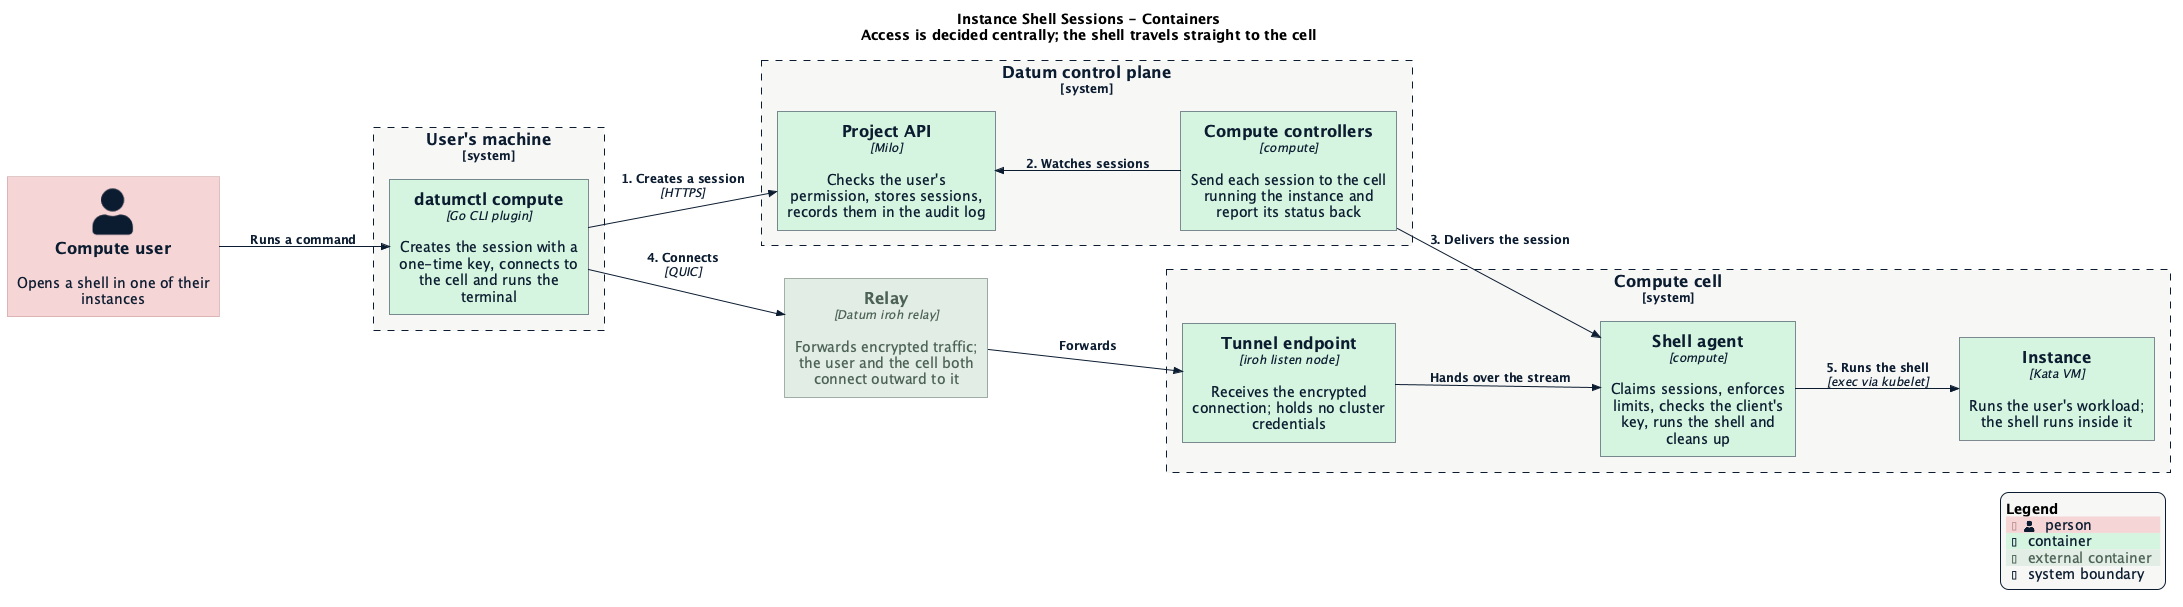
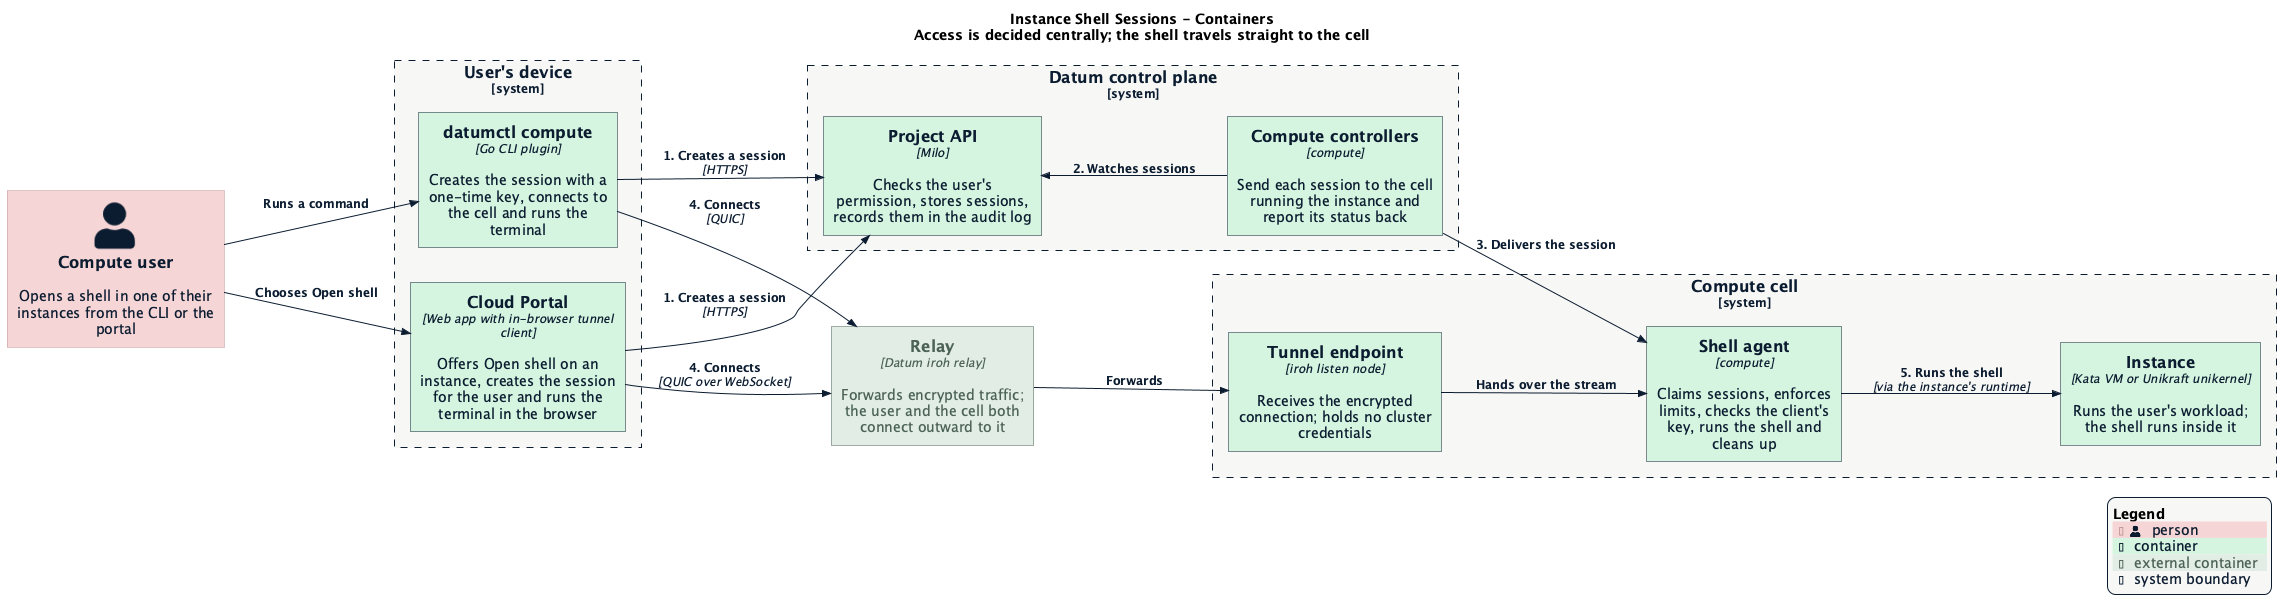
docs: cover unikernels and the portal in shell sessions
Widen the proposal to the unikernel runtime class and to shells opened from
the Cloud Portal, since both use the same session and tunnel design.

Key features/changes:
- Support general-purpose and unikernel instances with one experience;
  unikernels rely on the Unikraft exec plugin the provider already offers
- Add the portal's Open shell action and in-browser client to the
  experience, stories and container diagram
- Call out runtime differences, scale-to-zero instances, the browser
  download size and relay requirements for browsers

diff --git a/docs/enhancements/instance-shell-sessions/README.md b/docs/enhancements/instance-shell-sessions/README.md
@@ -34,8 +34,9 @@ supports) · [Federated Deployment Scheduling](../federated-deployment-schedulin
 
 ## Summary
 
-Let users open a live shell inside a running instance from the CLI, so they can
-see and fix problems where they happen. Access follows the project's existing
+Let users open a live shell inside a running instance from the CLI or the Cloud
+Portal, so they can see and fix problems where they happen. It works the same
+for general-purpose and unikernel instances. Access follows the project's existing
 permissions, and every session is short-lived and recorded.
 
 ## Motivation
@@ -46,12 +47,15 @@ command means changing and redeploying the workload, which is slow and can
 hide the problem being investigated.
 
 Getting into a running instance is something every major hosting platform
-offers. Without it, Datum Compute feels hard to debug.
+offers. Without it, Datum Compute feels hard to debug, especially for users who
+have found a problem in the portal and have nowhere to go from there.
 
 ### Goals
 
 - A user with the right permission can open an interactive shell in a running
-  instance of the general-purpose (Kata) runtime class with one command.
+  instance of the general-purpose (Kata) or unikernel (Unikraft) runtime class
+  with one command, or with one click in the Cloud Portal, and the experience
+  is the same on both runtimes.
 - Opening a shell takes about as long as starting a command on the runtime
   itself; the platform adds no noticeable delay.
 - Access is granted per project through existing permissions, and every
@@ -62,9 +66,7 @@ offers. Without it, Datum Compute feels hard to debug.
 
 ### Non-Goals
 
-- Shells from the Cloud Portal. The same client works in a browser, so this can
-  follow without changing anything on the cell side.
-- Other runtime classes (unikernel, virtual machines).
+- The virtual machine runtime class.
 - Attaching to an instance's main process, port forwarding or file transfer.
 - Recording the contents of a session (keystrokes and output).
 
@@ -78,7 +80,10 @@ $ datumctl compute exec web-0 -- sh
 / # exit
 ```
 
-*Illustrative only; exact commands are to be designed.*
+In the Cloud Portal, an instance's page gets an **Open shell** action that opens
+a terminal in the browser.
+
+*Illustrative only; exact commands and UI are to be designed.*
 
 ### User Stories
 
@@ -92,6 +97,11 @@ workload without redeploying to investigate.
 
 An operator runs a database migration from inside an instance, using the
 instance's own network access and configuration, then exits.
+
+#### Story 3: from the portal to a fix
+
+A user notices an unhealthy instance on its portal page, opens a shell from the
+same page, confirms a full disk and clears it, without switching tools.
 
 #### Story 3: controlled access
 
@@ -112,21 +122,23 @@ Source: [c4-container-diagram.puml](./c4-container-diagram.puml)
 | Container | Responsibility |
 |---|---|
 | **datumctl compute** | Creates the session with a key generated for it, then connects and runs the terminal. The key is never stored. |
+| **Cloud Portal** | Offers **Open shell** on an instance, creates the session on the user's behalf, and runs the same tunnel client in the browser, with a key generated in the tab. |
 | **Project API** | Decides who may open a shell (a new permission on Instance, granted to admins only), stores sessions and records them in the audit log. |
 | **Compute controllers** | Send each session to the cell that runs the instance and report its status back to the project. |
 | **Relay** | Forwards encrypted traffic between the user and the cell. Both sides connect outward, so cells need no open ports. |
 | **Tunnel endpoint** | The cell's internet-facing piece. It holds no credentials and can reach only its shell agent and the relays. |
 | **Shell agent** | Claims sessions, checks the instance can take one, verifies the client holds the session's key, runs the shell, and ends its processes when the session ends. |
-| **Instance** | The user's Kata VM. The shell reaches it through the runtime, never through the instance's network. |
+| **Instance** | The user's Kata VM or Unikraft unikernel. The shell reaches it through the instance's runtime, never through the instance's network. |
 
 A session moves through five steps:
 
-1. The user runs `datumctl compute exec`. The CLI creates a session naming the
-   instance, the command and the public half of a key it just generated.
+1. The user runs `datumctl compute exec` or chooses **Open shell** in the
+   portal. The client creates a session naming the instance, the command and
+   the public half of a key it just generated.
 2. The Project API checks the user may open shells in this project.
 3. Compute delivers the session to the cell running the instance, where a
    shell agent claims it and publishes where to connect.
-4. The CLI connects through the relay and proves it holds the session's key.
+4. The client connects through the relay and proves it holds the session's key.
 5. The agent starts the shell. When the user exits, the session expires or it
    is revoked, the agent ends the shell's processes and records how it ended.
 
@@ -150,7 +162,9 @@ A session moves through five steps:
 | A shell is a powerful form of access | Admin-only permission, short sessions, audit of every session, one command per session |
 | The Go iroh library has one maintainer | Pin the version; test it against the Rust tunnel endpoint in CI; keep a small Rust helper as a fallback |
 | Relay distance adds latency | Use Datum's regional relays; measure session start from real networks before preview |
+| The browser client is a large download | Load it only when a terminal opens (about 3 MB compressed); cache it between visits |
 | Abandoned sessions hold capacity | Connect deadline, per-instance limit and automatic cleanup when an agent stops |
+| Runtimes behave differently inside | A shell check when each session is claimed; an instance without a usable shell is refused with a clear reason. Verify process cleanup and scale-to-zero behaviour on unikernels in staging |
 | Security review | Review the key, isolation and cleanup model with the platform security owners before preview |
 
 ## Design Details
@@ -160,8 +174,15 @@ A session moves through five steps:
   and a time-to-live. Its spec cannot change after creation. Its status says
   which agent took it, where to connect, when it must connect by, when it
   expires, and a single `Ready` condition whose reason records how it ended.
-- **Runtime capability.** Runtime classes advertise shell support. Sessions for
-  instances of other classes are refused.
+- **Runtime capability.** Runtime classes advertise shell support, and sessions
+  for classes without it are refused. The shell agent works through each
+  provider's instances the same way, so a runtime needs no shell-specific code
+  in compute:
+  - **General-purpose (Kata):** supported by the runtime natively.
+  - **Unikernel (Unikraft):** supported by the Unikraft exec plugin, which the
+    unikraft provider already enables per cell through its exec policy.
+- **Instances that are not running.** A unikernel instance scaled to zero, or
+  any stopped instance, cannot take a session; the user is told why.
 - **Routing.** Instances record which cell runs them, and sessions follow the
   same federation path as the workloads they target.
 - **Ending reasons.** Completed, Expired, Revoked, NotConnected, AgentShutdown,
@@ -210,7 +231,8 @@ cells through the normal release tag.
 |---|---|
 | Relays | New and open shells in the affected region fail; instances are unaffected |
 | Federation to cells | New sessions are not delivered; open shells continue |
-| Kata runtime | Shells fail for instances on the affected node |
+| Kata runtime | Shells fail for Kata instances on the affected node |
+| Unikraft exec plugin | Shells fail for unikernel instances on the affected node |
 
 ### Scalability
 
@@ -228,7 +250,10 @@ bounded by the per-instance limit and session lifetime.
 
 ## Implementation History
 
-- 2026-09-29: Local prototype on a Kata cell; this document drafted.
+- 2026-09-29: Local prototype on a Kata cell, from the CLI and from a browser
+  (Chromium and WebKit); this document drafted. The
+  unikernel path relies on the Unikraft exec plugin the unikraft provider
+  already supports.
 
 ## Drawbacks
 
@@ -249,7 +274,10 @@ bounded by the per-instance limit and session lifetime.
 
 ## Infrastructure Needed
 
-- A shell agent and tunnel endpoint deployed to each Kata cell, with network
-  policy limiting both.
+- A shell agent and tunnel endpoint deployed to each compute cell, with
+  network policy limiting both.
+- The Unikraft exec policy enabled on cells that run unikernel instances.
+- Relays served over TLS, with browser access allowed on their latency probe, so
+  portal terminals can connect.
 - Relay capacity and placement reviewed for interactive traffic.
 - Audit logging of session creation in the Project API's audit policy.
